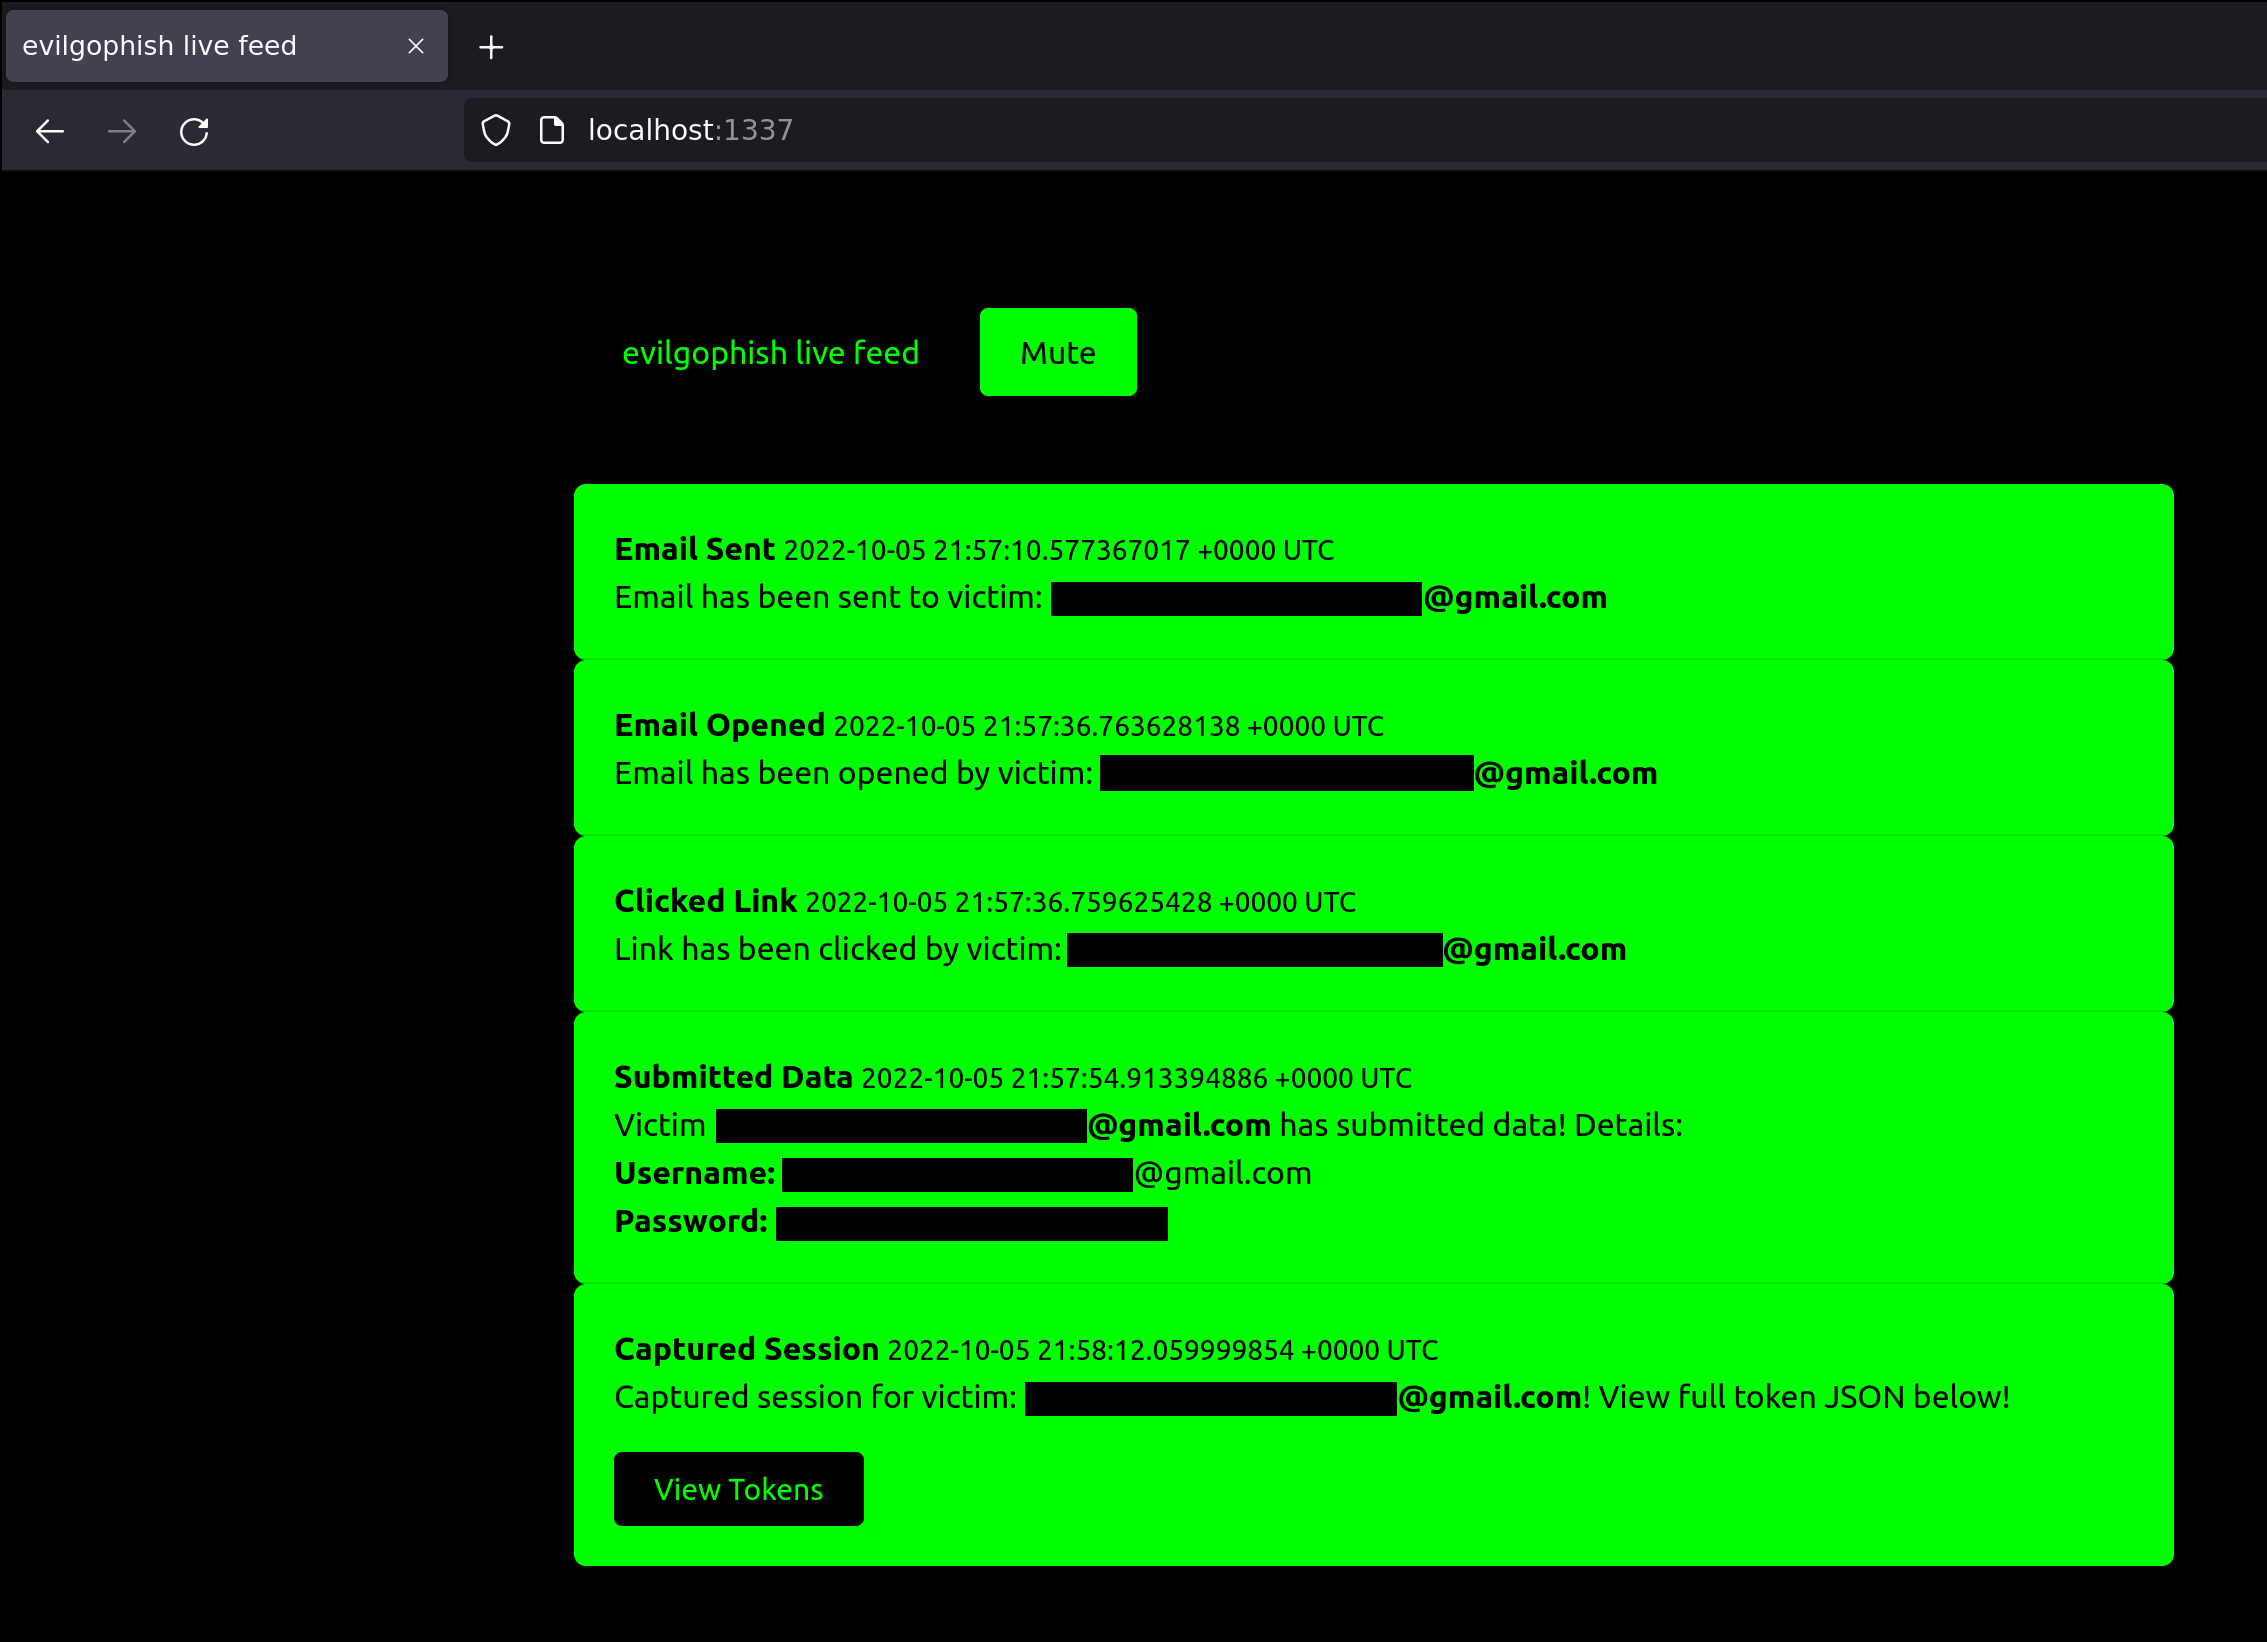
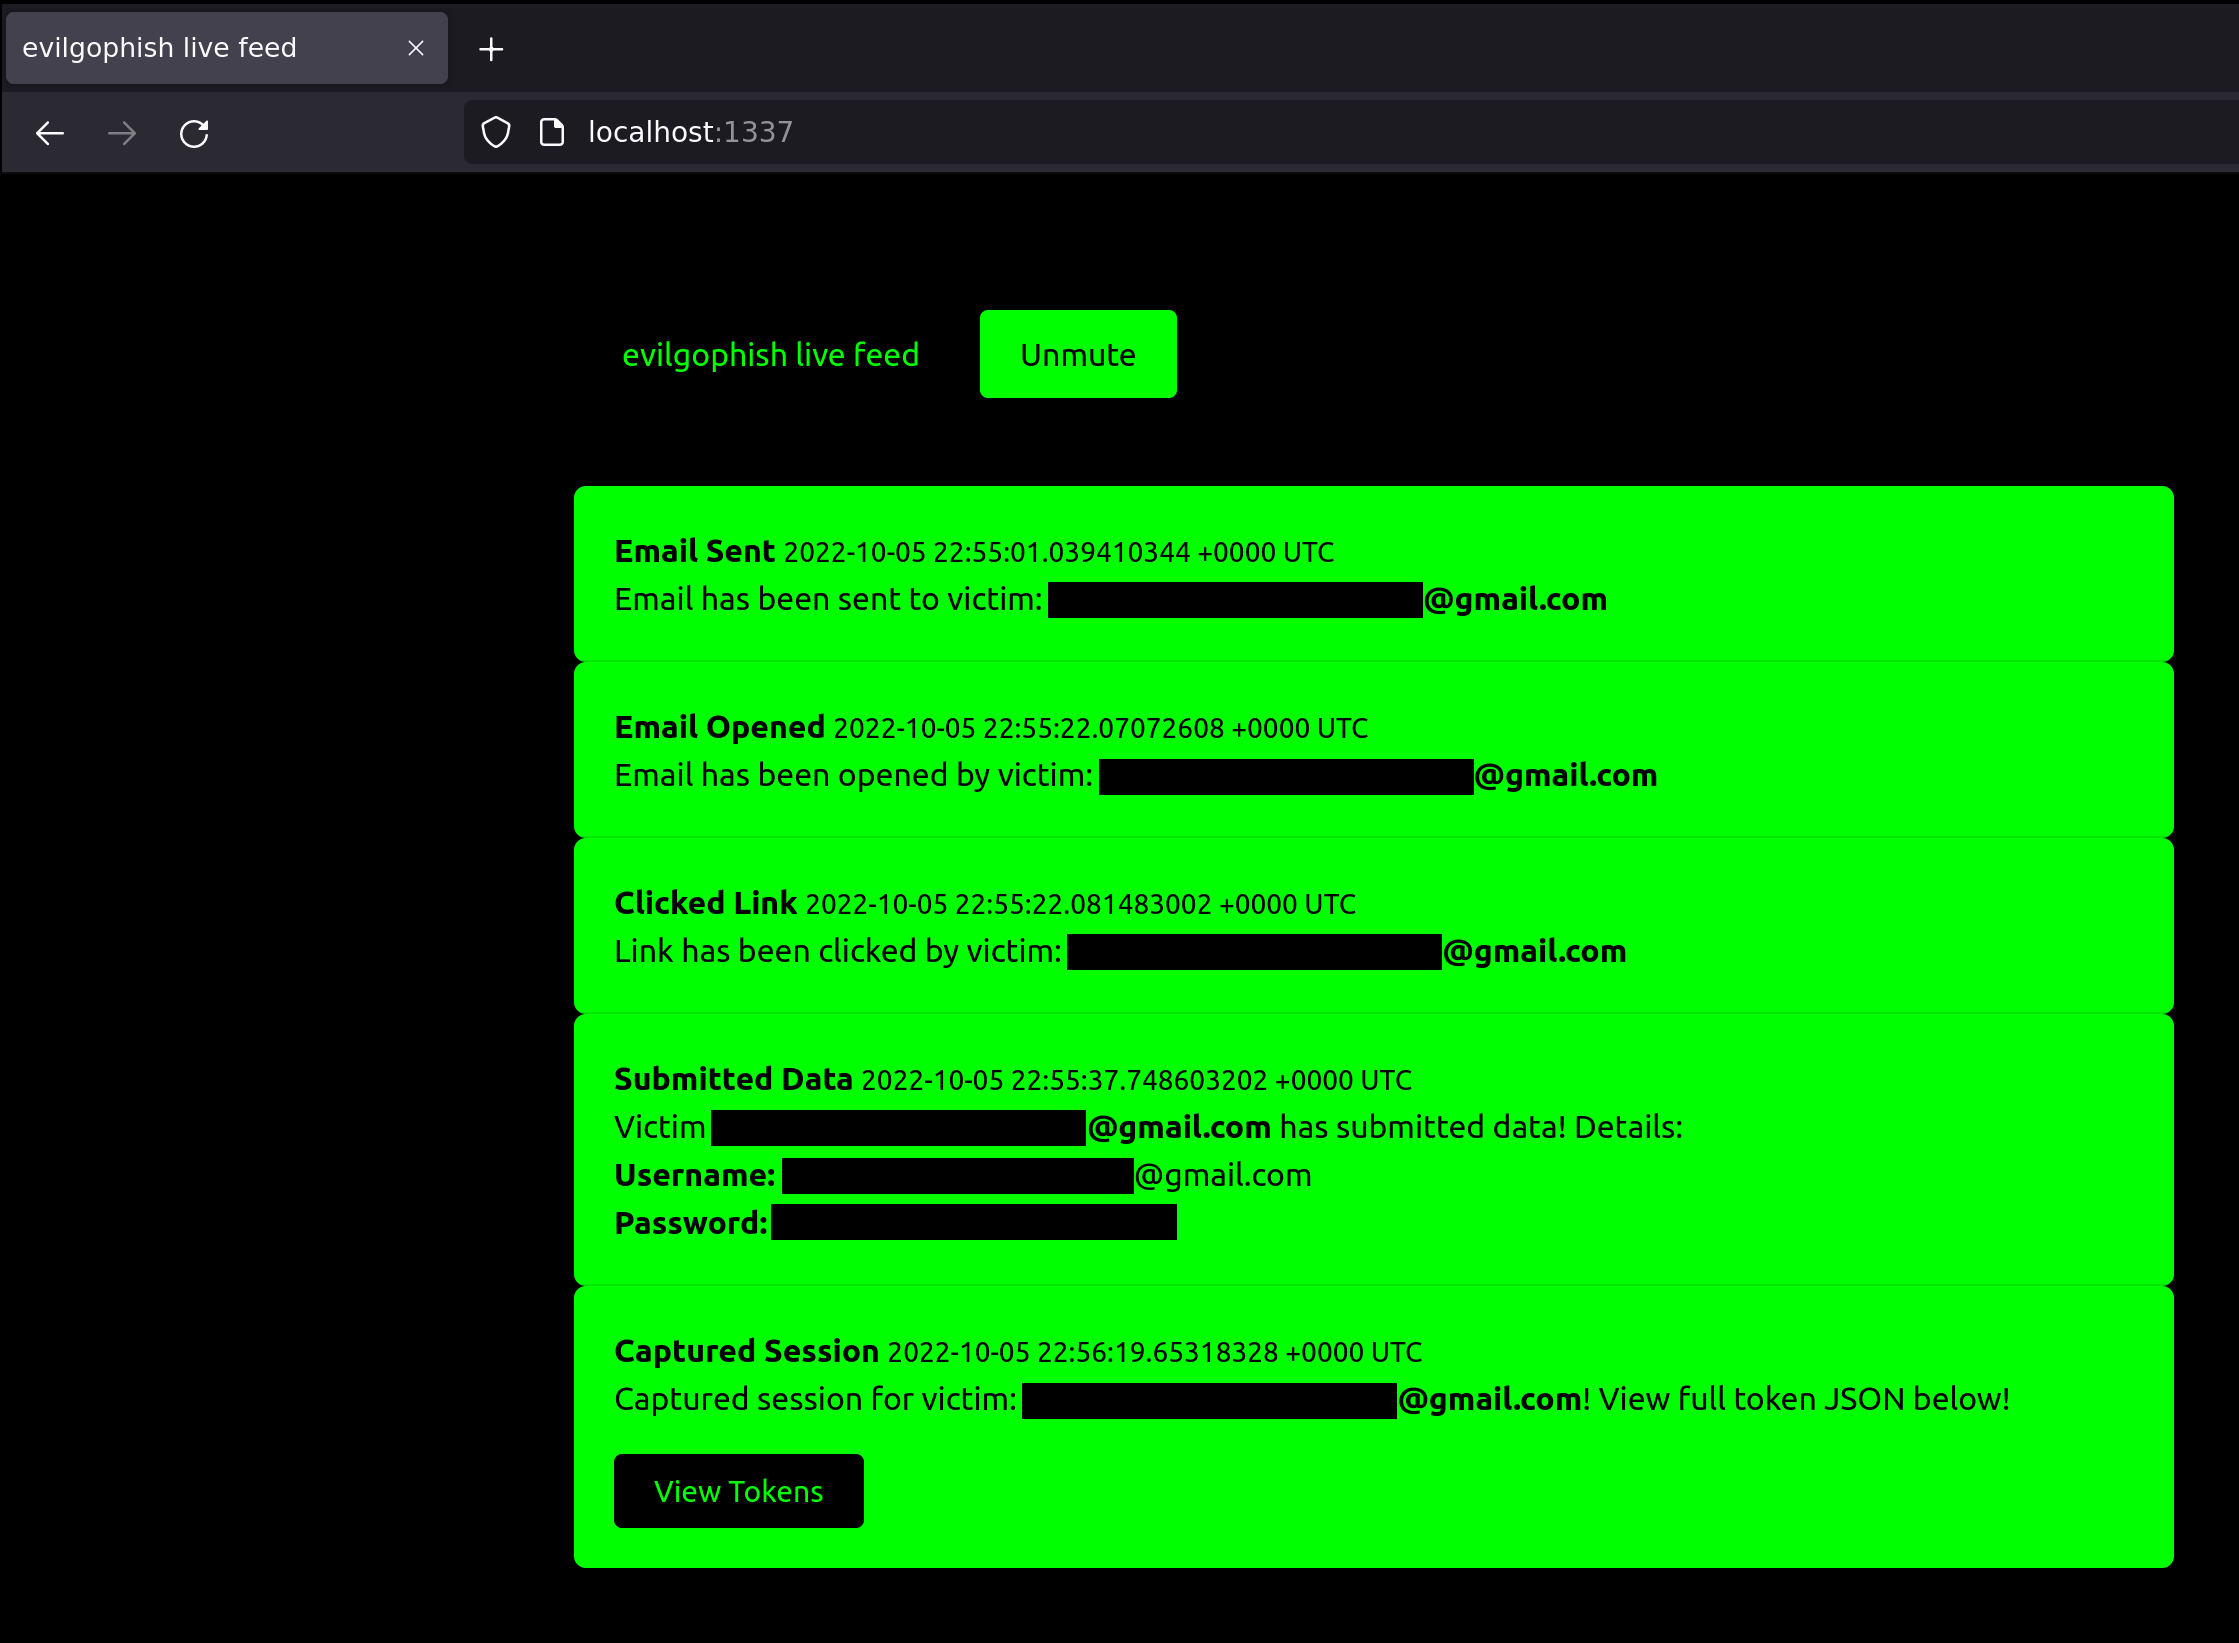
fix timing of clicked link notifications

diff --git a/evilginx2/database/database.go b/evilginx2/database/database.go
@@ -215,20 +215,26 @@ func HandleClickedLink (rid string, browser map[string]string, feed_enabled bool
         res.Longitude = 0.000000
         res.Reported = false
         res.BaseRecipient = r.BaseRecipient
-        event, err := res.createEvent("Clicked Link", ed)
-        if err != nil {
-            return err
-        } 
-        res.Status = "Clicked Link"
-        res.ModifiedDate = event.Time
         if feed_enabled {
             if r.Status == "Email/SMS Sent" {
                 HandleEmailOpened(rid, browser, true)
+                event, err := res.createEvent("Clicked Link", ed)
+                if err != nil {
+                    return err
+                } 
+                res.Status = "Clicked Link"
+                res.ModifiedDate = event.Time
                 err = res.NotifyClickedLink()
                 if err != nil {
                     fmt.Printf("Error sending websocket message: %s\n", err)
                 }
             } else {
+                event, err := res.createEvent("Clicked Link", ed)
+                if err != nil {
+                    return err
+                } 
+                res.Status = "Clicked Link"
+                res.ModifiedDate = event.Time
                 err = res.NotifyClickedLink()
                 if err != nil {
                     fmt.Printf("Error sending websocket message: %s\n", err)
@@ -237,6 +243,19 @@ func HandleClickedLink (rid string, browser map[string]string, feed_enabled bool
         } else {
             if r.Status == "Email/SMS Sent" {
                 HandleEmailOpened(rid, browser, false)
+                event, err := res.createEvent("Clicked Link", ed)
+                if err != nil {
+                    return err
+                } 
+                res.Status = "Clicked Link"
+                res.ModifiedDate = event.Time
+            } else {
+                event, err := res.createEvent("Clicked Link", ed)
+                if err != nil {
+                    return err
+                } 
+                res.Status = "Clicked Link"
+                res.ModifiedDate = event.Time
             }
         }
         if r.Status == "Submitted Data" {
